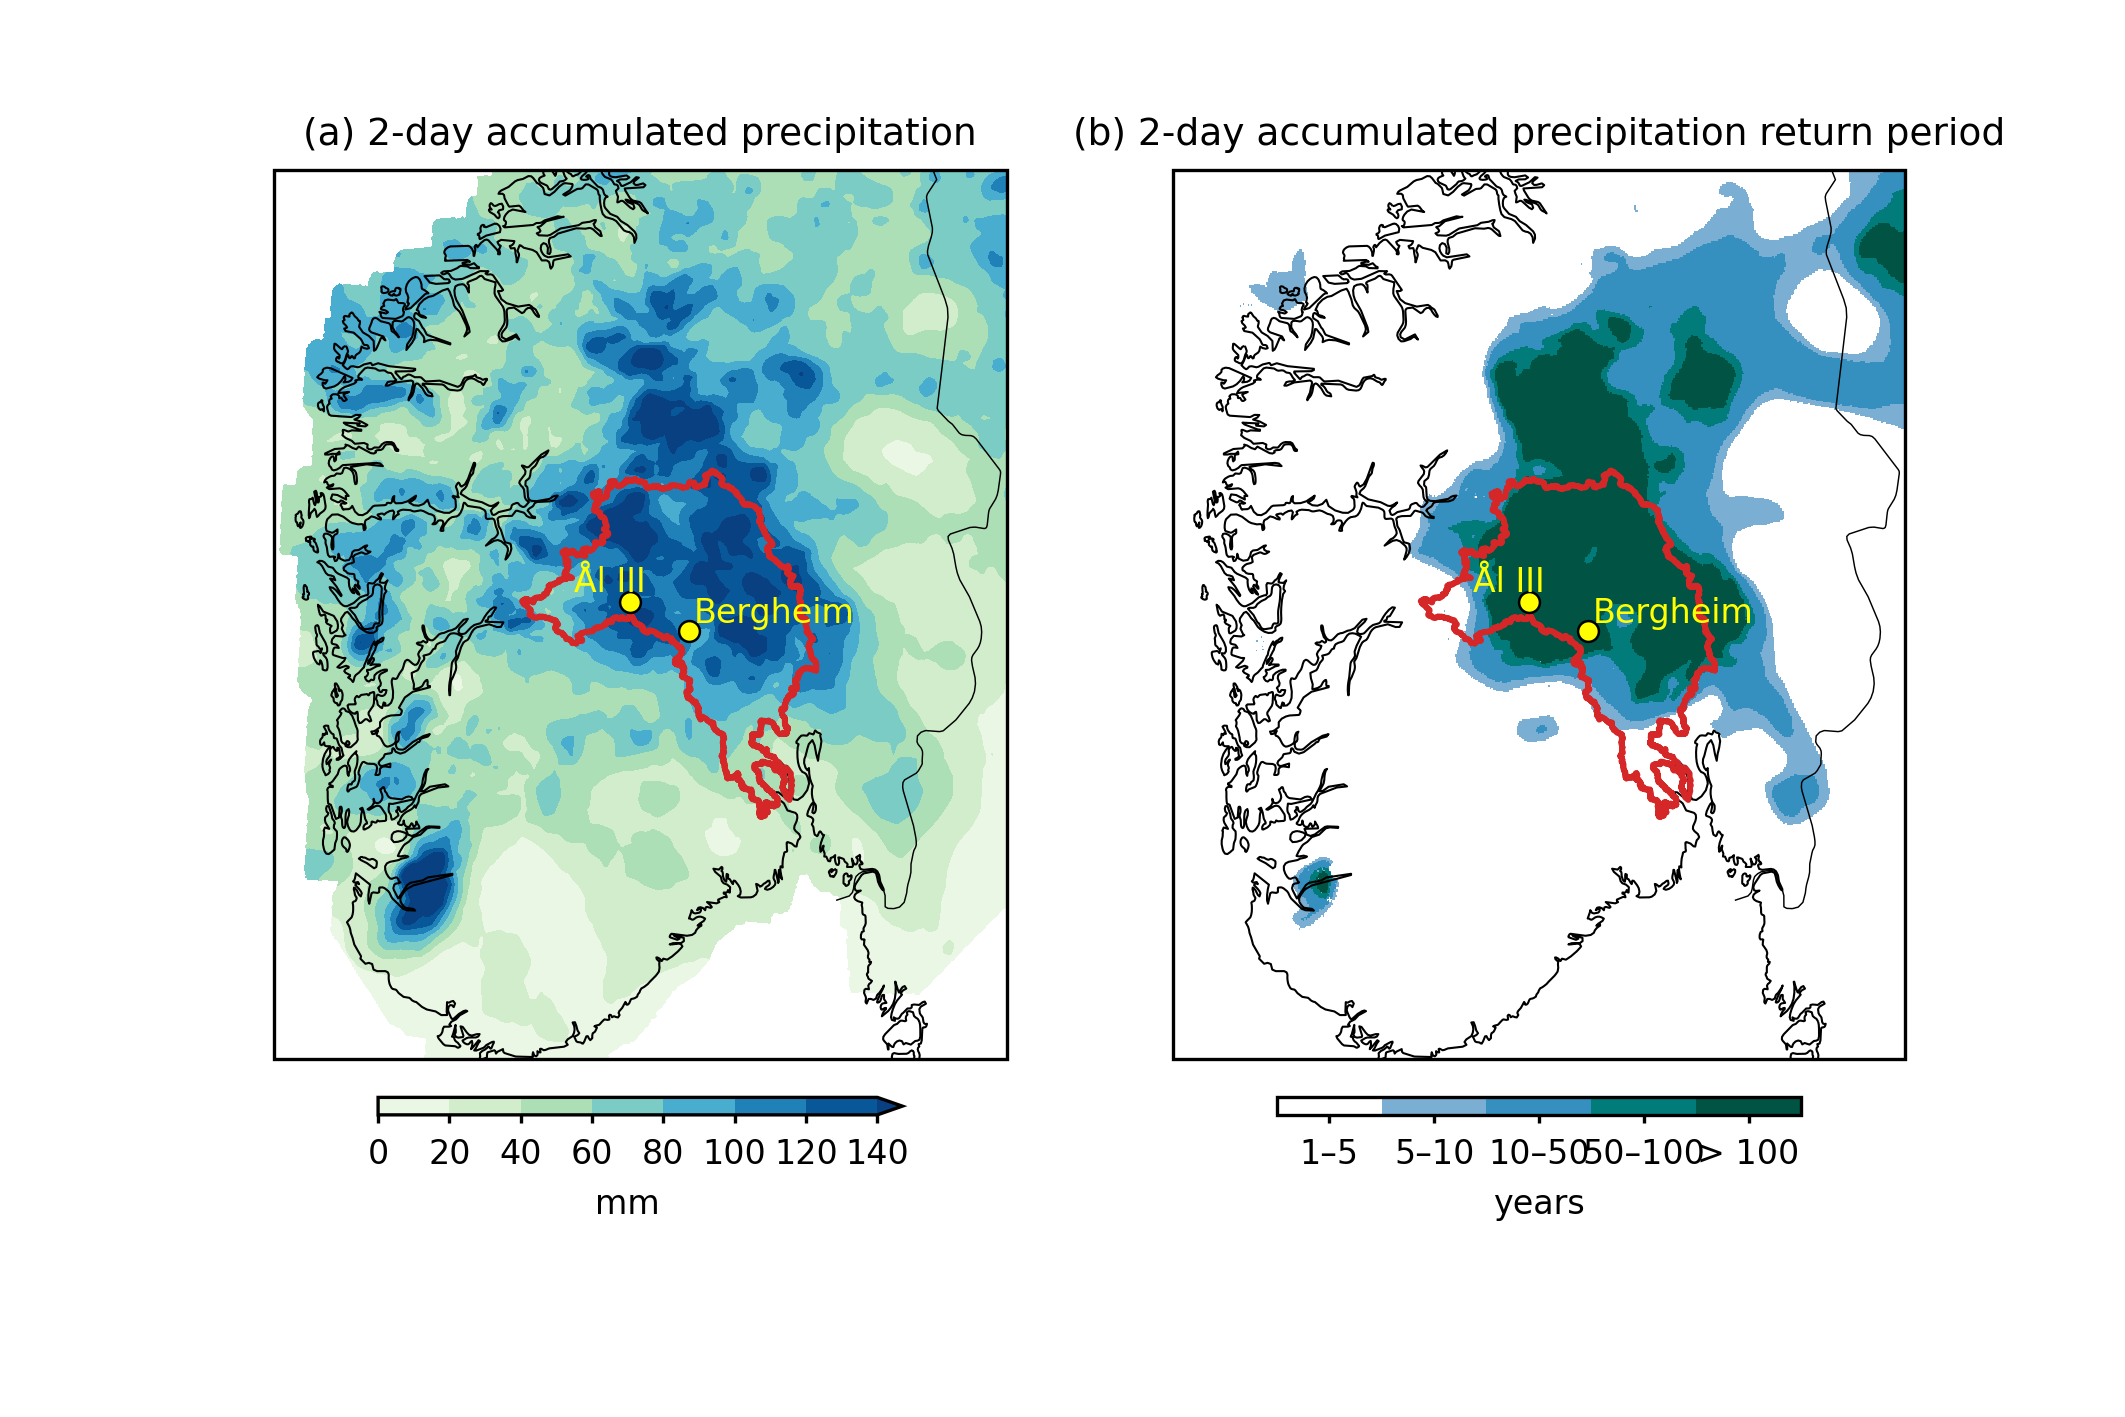
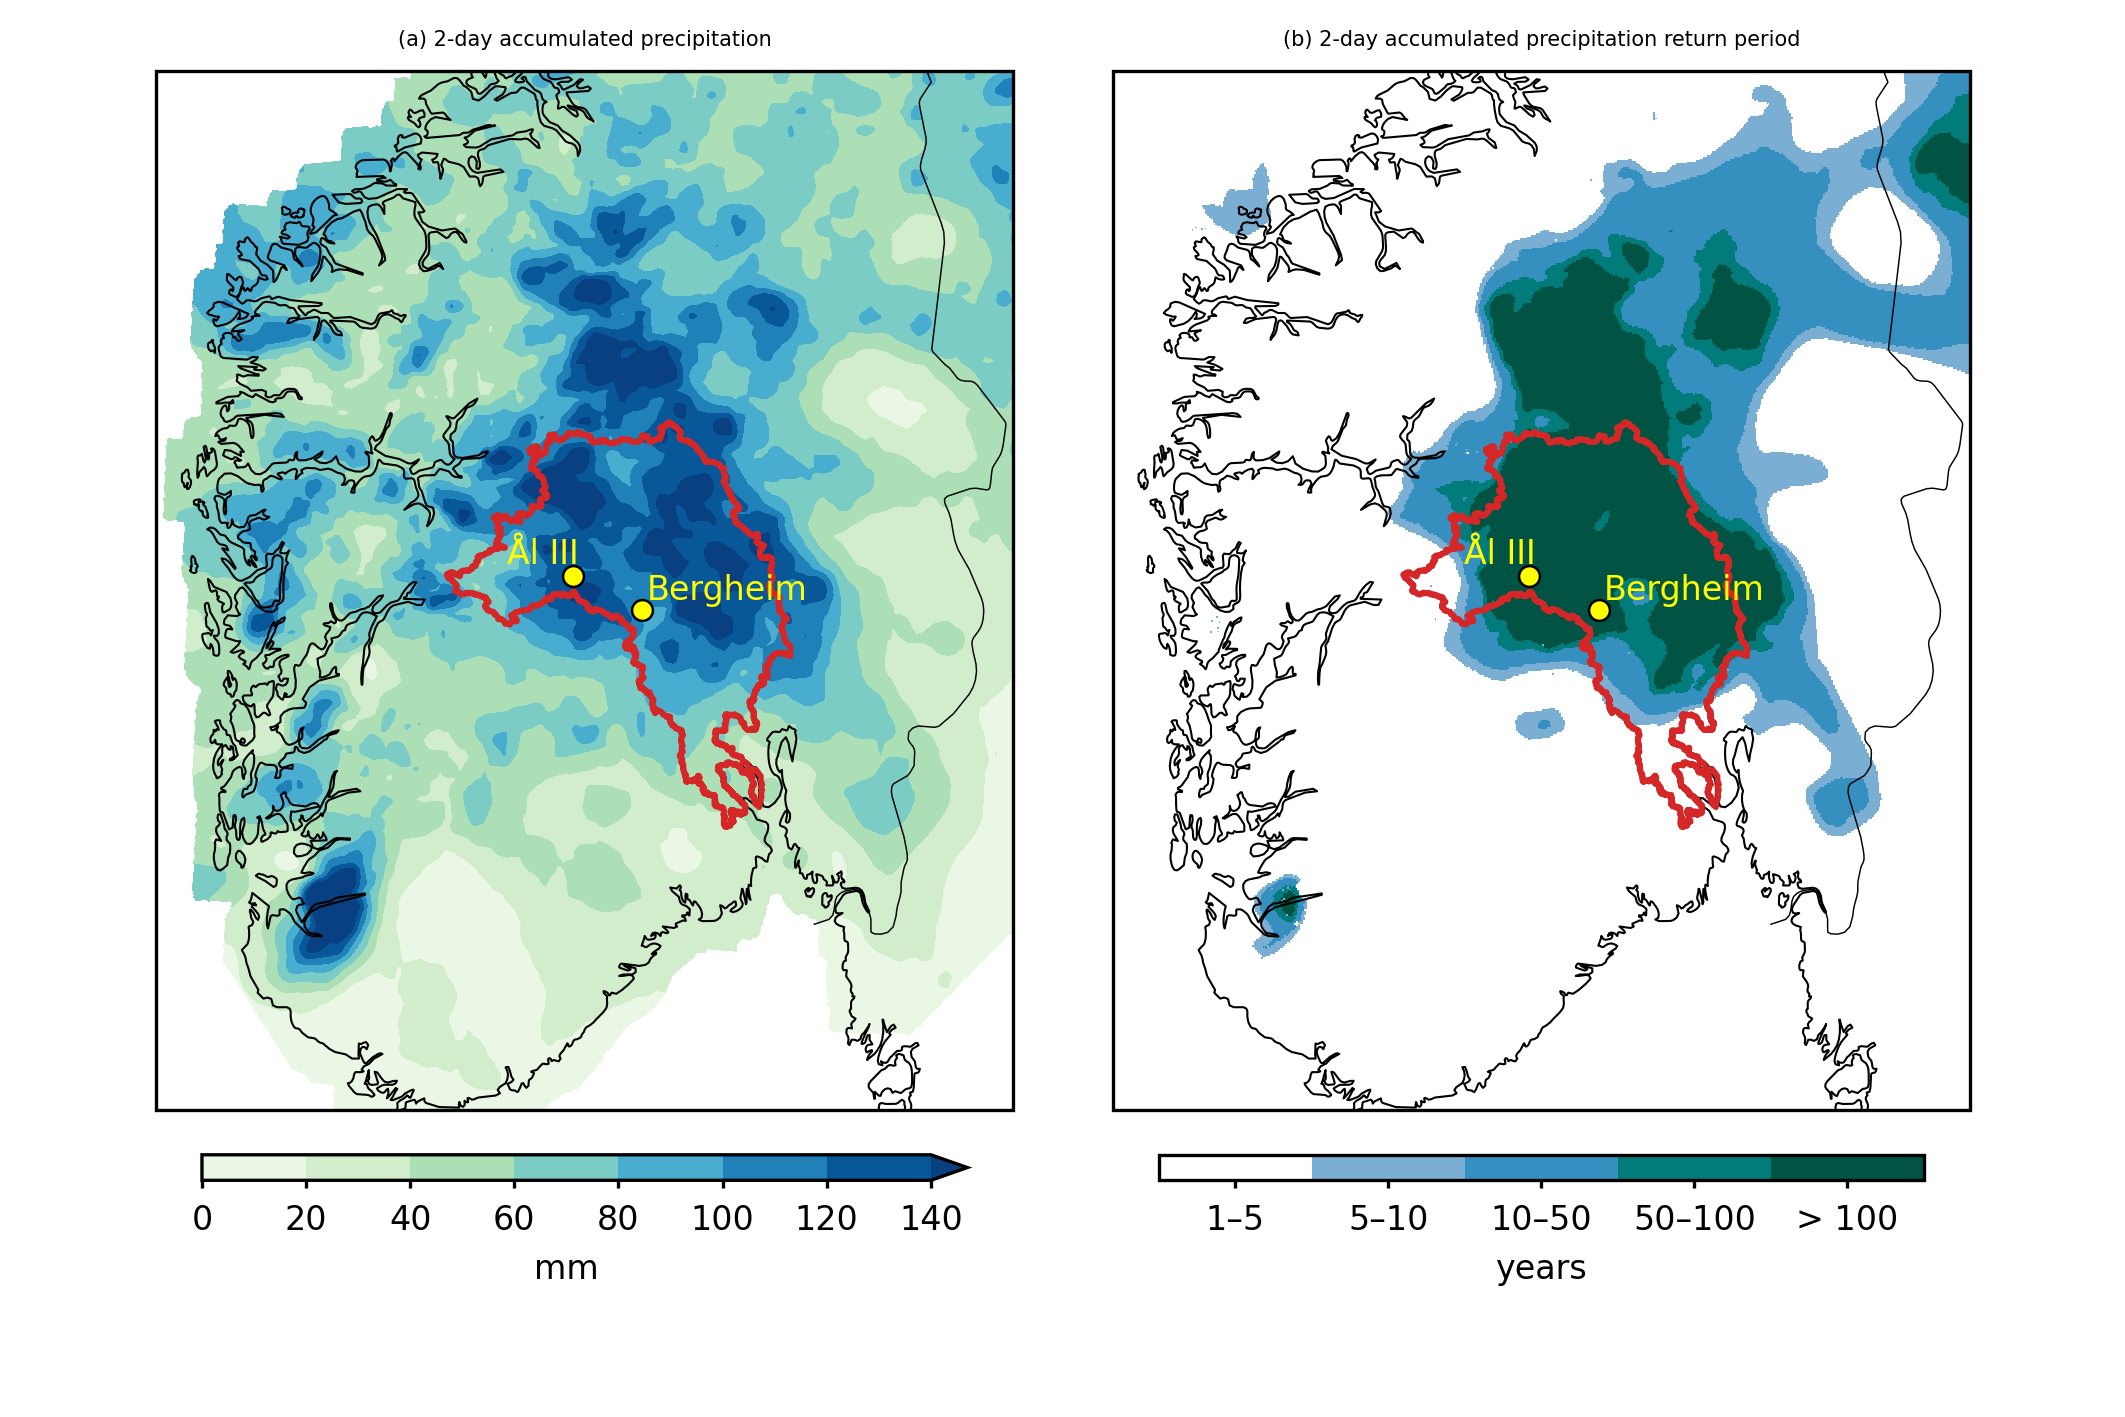
update

diff --git a/code/plot/paper_figs/temp.py b/code/plot/paper_figs/temp.py
@@ -54,7 +54,7 @@ FIG_DPI = 300
 # --- Font sizes
 tick_labelsize = 8
 axis_labelsize = 8
-title_fontsize = 9
+title_fontsize = 5
 station_labelsize = 8
 
 # --- Map projection and extent
@@ -169,10 +169,13 @@ def make_two_map_axes(central_lon=10.0, central_lat=62.0, extent=None):
         subplot_kw={"projection": proj_map},
     )
 
-    # Tight spacing between panels
-    #fig.subplots_adjust(
-    #    wspace=-0.0,  # << very small horizontal spacing
-    #)
+    fig.subplots_adjust(
+        left=0.05,
+        right=0.95,
+        bottom=0.05,
+        top=0.95,
+        wspace=0.0, 
+    )
     
     for ax in axes:
         ax.coastlines(resolution="10m", linewidth=0.5)
@@ -209,7 +212,7 @@ def plot_precipitation(ax, da, lon, lat, proj_data):
         cf,
         ax=ax,
         orientation="horizontal",
-        shrink=0.7,
+        shrink=0.8,
         pad=0.035,
         aspect=30,
     )
@@ -261,7 +264,7 @@ def plot_return_period(ax, da, lon, lat, proj_data):
         mesh,
         ax=ax,
         orientation="horizontal",
-        shrink=0.7,
+        shrink=0.8,
         pad=0.035,
         aspect=30,
         ticks=np.arange(len(CATEGORY_LABELS)),
